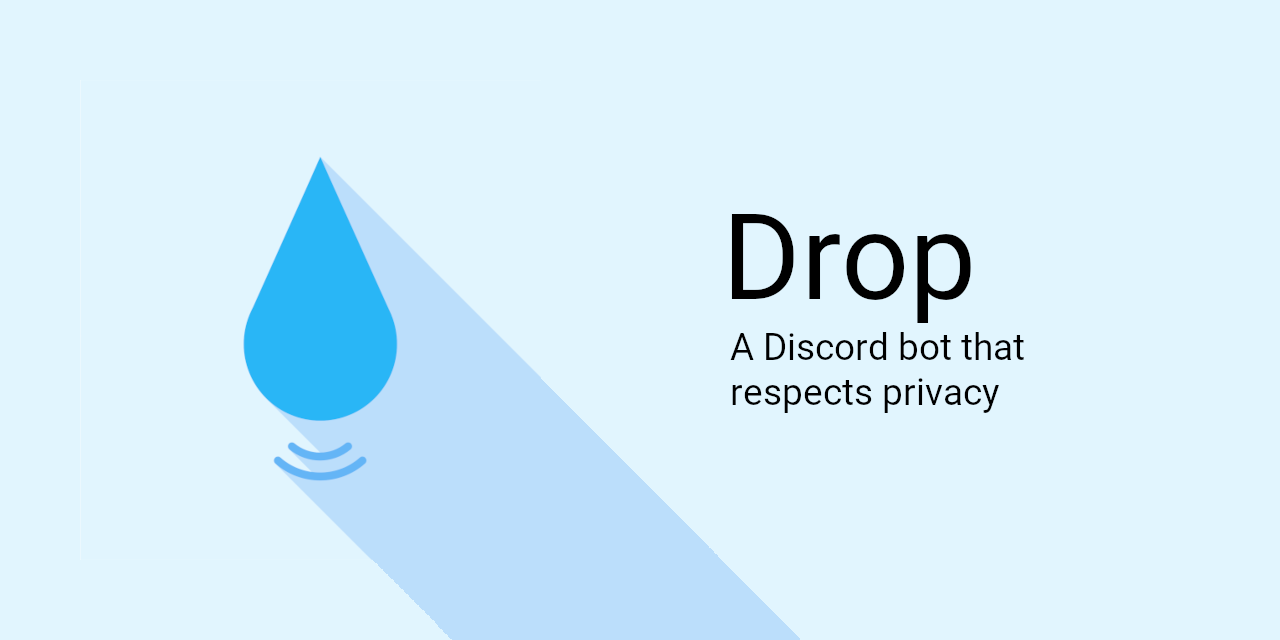
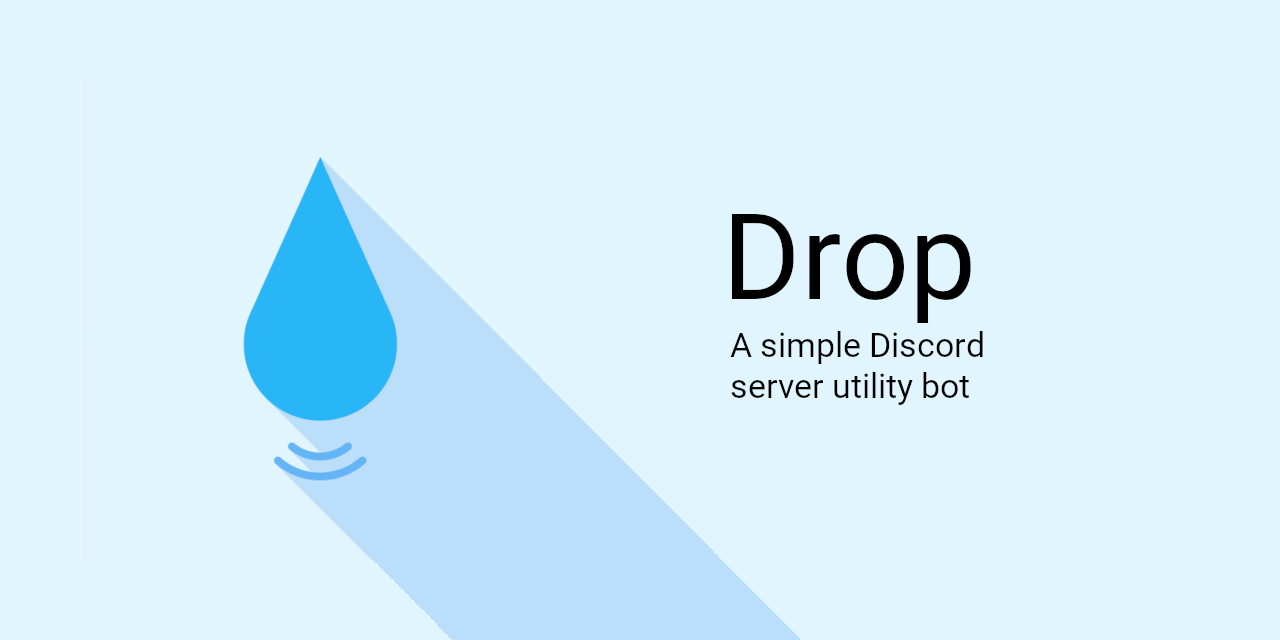
Changed the bot's "phrase" (and updated the feedback command description)

Changed region(s): [[0.5625, 0.5938, 0.7812, 0.6562], [0.5625, 0.5, 0.8125, 0.5625]]

diff --git a/cogs/basic.py b/cogs/basic.py
@@ -33,12 +33,8 @@ class Basic(commands.Cog):
 
     @commands.command(
         name='feedback',
-        description='Sends a special little message to me (the creator of this bot) about how you like/dislike this '
-                    'bot! Really, you can say anything about it, even about how you think it\'s [BLEEP]ing horrible, '
-                    'or to suggest things such as the games it should play or things it should watch every time the '
-                    'bot starts up. Mention anything, really! Oh and about the data that is being sent, '
-                    'all that is shared is your username and the message you send me. Nothing that can really '
-                    'personally or specifically identify you.',
+        description='Send a message about your personal feedback, for example you can suggest new commands, report a '
+                    'bug, or just talk about how the bot is horrible.',
         usage='',
         brief='Send your feedback about this bot'
     )

diff --git a/README.md b/README.md
@@ -1,5 +1,5 @@
 # Drop
-A Discord.py bot that respects privacy, while still retaining usability.
+A Discord.py bot that is meant to be a simple Discord server utility bot that requires the least amount of configuration possible.
 
 ## What the hell is this? 
 ~~Didn't you read the text above?~~ This is a Python bot that was built from scratch that was meant to be as private and free as possible, while still retaining usability and flexibility in mind. 
